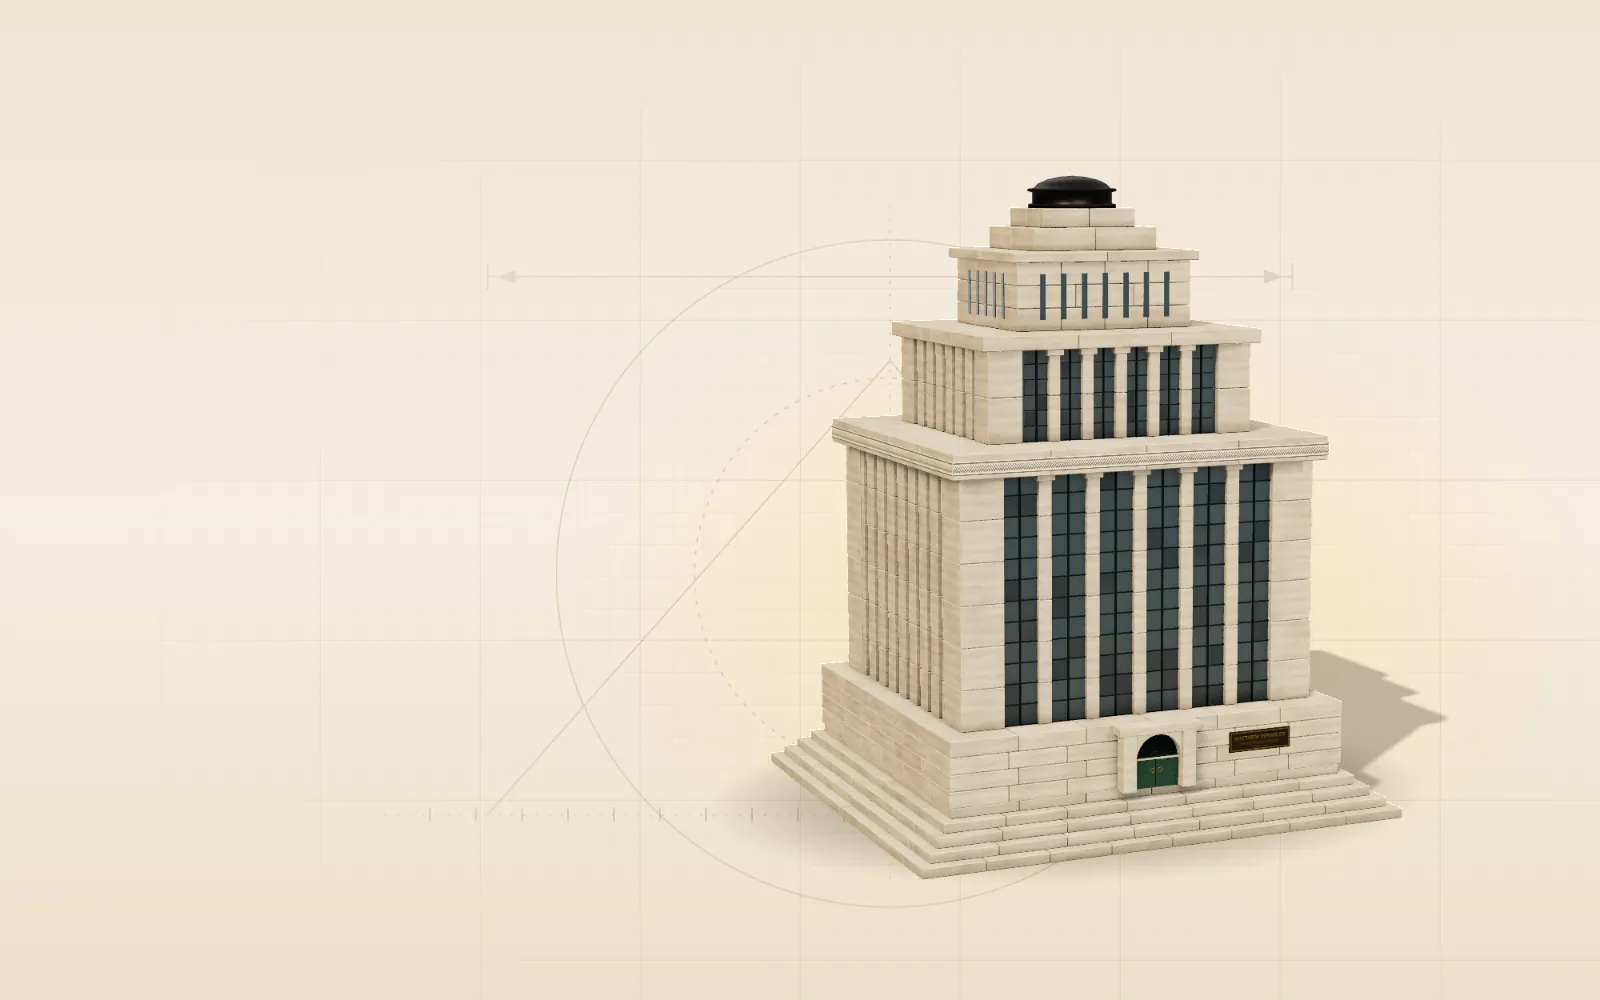
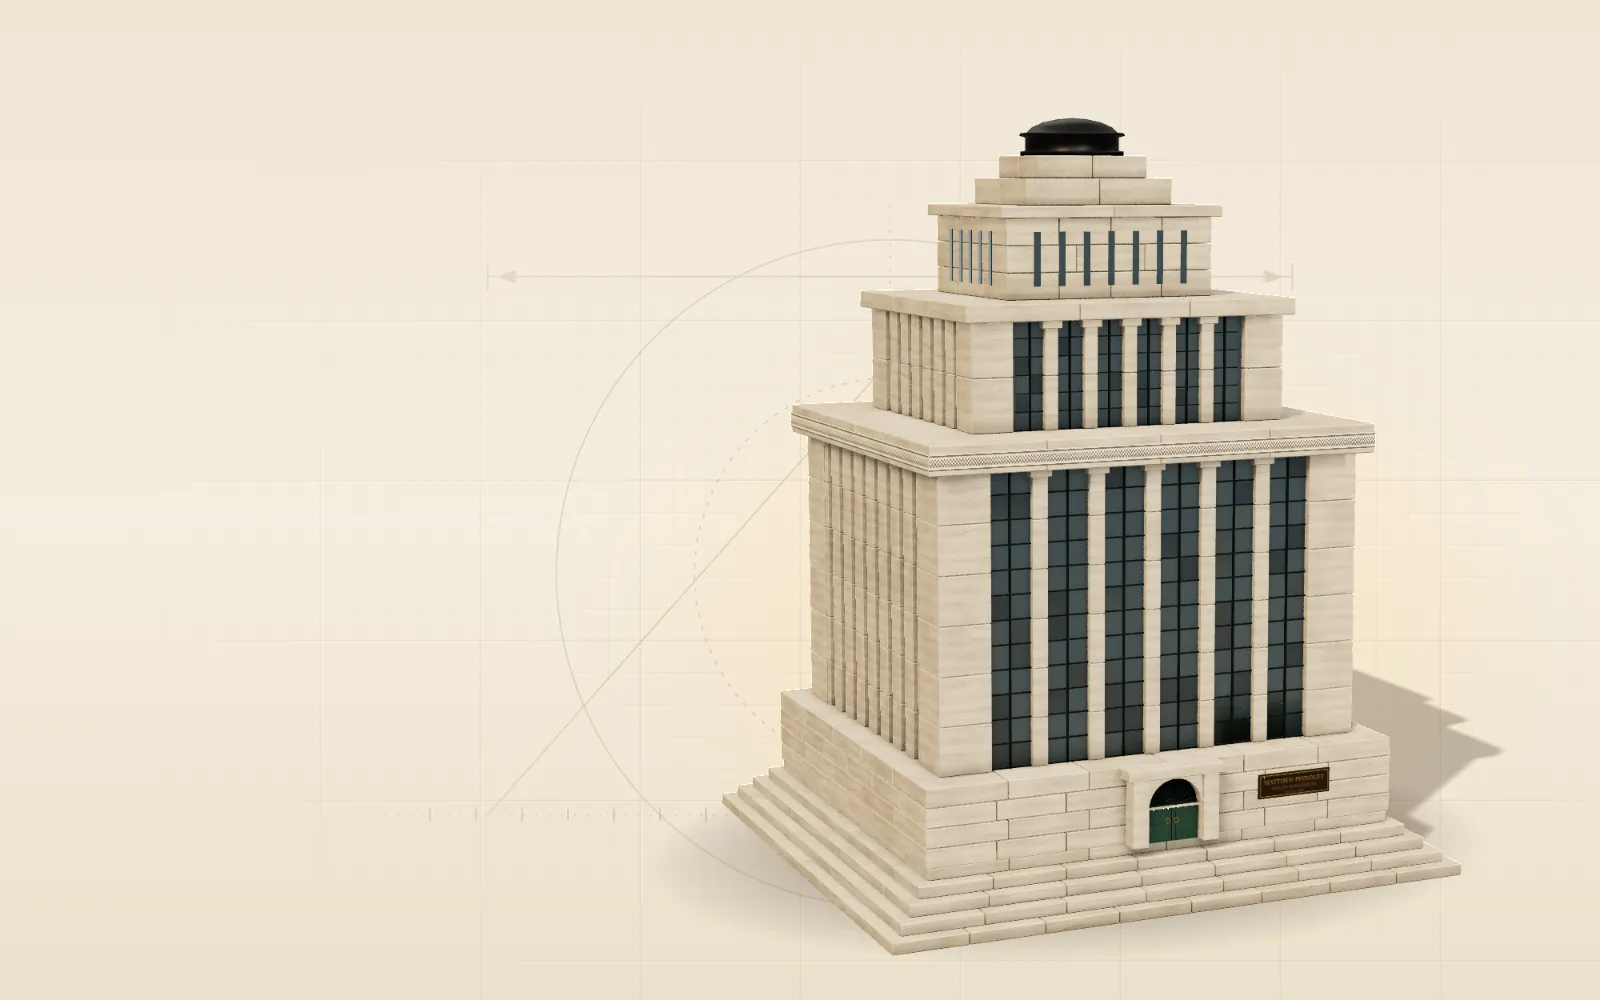
Bring the tower closer on wide screens
The camera now stands about 15% nearer on desktop, from the blueprint
to the finished tower, so the building fills more of the stage; on
phones it keeps the framing that clears the words. The stills for
browsers without WebGL are rendered at the new size.

Claude-Session: https://claude.ai/code/session_01BEd7WGPKnwpNapDZuMXaLG

Changed region(s): [[0.4375, 0.093, 0.9375, 0.961]]

diff --git a/assets/fee-tower.js b/assets/fee-tower.js
@@ -530,7 +530,7 @@ function start() {
     const viewP = clamp01((-sec.getBoundingClientRect().top - (scrollY - sy)) / Math.max(1, sec.offsetHeight - innerHeight));
     const portrait = camera.aspect < 1.05;
     const b = ease(built);
-    const dist = lerp(64, 54, b) * (portrait ? 2.15 : 1); // tall screens: further back, so the tower clears the words
+    const dist = lerp(56, 46, b) * (portrait ? 2.5 : 1); // tall screens: further back, so the tower clears the words
     const elev = THREE.MathUtils.degToRad(lerp(12, 8, b)); // low, as a person standing before it would see it
     const az = THREE.MathUtils.degToRad(reduced ? -24 : -40 + 22 * viewP); // reduced motion: a still camera
     const ty = lerp(7.4, 6.8, b) - (portrait ? 0.8 : 0);
